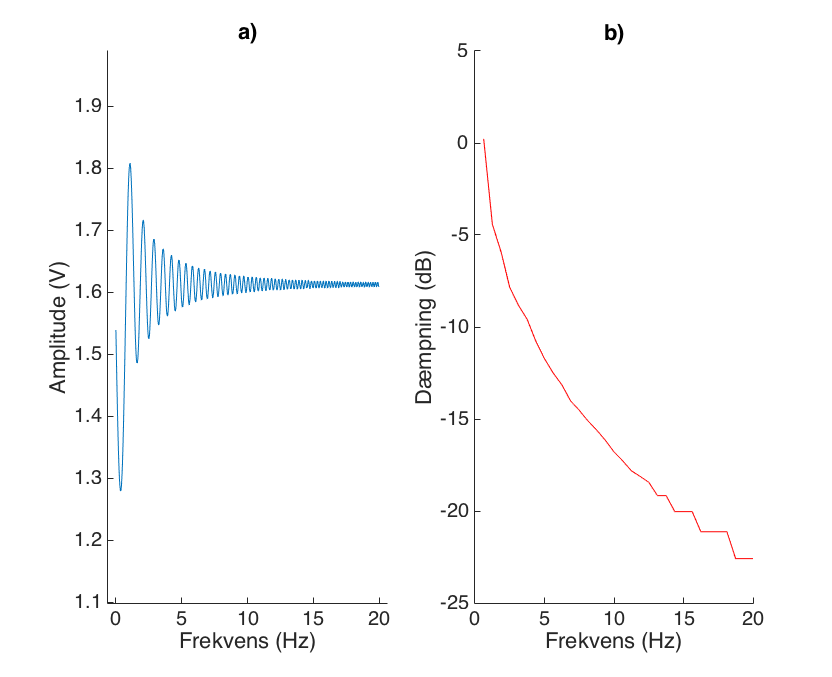
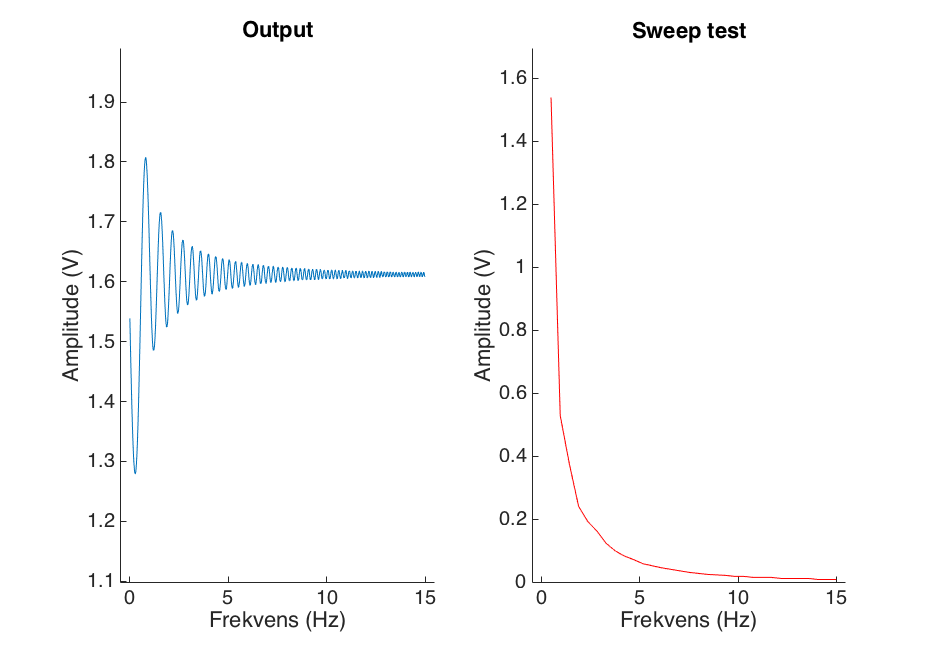
done

diff --git a/rapportAfsnit/eProblemloesning/Test/lavpas_test.tex b/rapportAfsnit/eProblemloesning/Test/lavpas_test.tex
@@ -11,17 +11,17 @@ For at undersøge, hvilken betydning det digitalt filtrede signal har i forhold 
 \noindent
 Figuren illustrerer, at inputsignalet følger det samplede signal dog med forsinkelse, for at teste forsinkelsen i det filteret eksekveres, defineres en debug-pin. Denne pin sættes høj før funktionskaldet og lav efter funktionskaldet. For at måle, hvor længe pinen er høj, tilsluttes et oscilloskop. Ud fra dette kan der aflæses en forsinkelse på $175~\mu~s$, hvilket er den forsinkelse der går før data har passeret det digitale filter. Denne forsinkelse vurderes ikke at have nogen signifikant betydning.
 
-For at vurdere om filteret dæmper nok i forhold til de opstillede krav i \autoref{sec:lavpas_krav}, udføres en sweeptest af frekvenser fra $0-15~Hz$ med en funktionsgenerator. Dette frekvensområde er valgt på baggrund af målinger fra \autoref{sec:pilotforsoeg}, hvor det fremgår, at signalet ligger mellem $0,4-10~Hz$.  Da funktionsgeneratoren ikke kan indstilles til en frekvens på $0~Hz$ indstilles denne til $1~\mu~Hz$. Amplituden sættes til 1 $V_{pp}$ med et offset på $1,65~V$, som er det halve af spændingsforsyningen på $3,3~V$. De målte værdier er multipliceret med spændingsforsyningen divideret med ADC'ens arbejdsområde, for således at omregne dette til spænding. Spændingensforsyningen er på $3,3~V$ og ADC'ens arbejdsområde er 2048. Resultatet af sweeptesten fremgår af \autoref{fig:lavps_sweep} \textbf{a)}, mens \textbf{b)} viser kurven for $V_{pp}$ gennem sweppet.
+For at vurdere om filteret dæmper nok i forhold til de opstillede krav i \autoref{sec:lavpas_krav}, udføres en sweeptest af frekvenser fra $0-15~Hz$ med en funktionsgenerator. Dette frekvensområde er valgt på baggrund af målinger fra \autoref{sec:pilotforsoeg}, hvor det fremgår, at signalet ligger mellem $0,4-10~Hz$.  Da funktionsgeneratoren ikke kan indstilles til en frekvens på $0~Hz$ indstilles denne til $1~\mu~Hz$. Amplituden sættes til 1 $V_{pp}$ med et offset på $1,65~V$, som er det halve af spændingsforsyningen på $3,3~V$. De målte værdier er multipliceret med spændingsforsyningen divideret med ADC'ens arbejdsområde, for således at omregne dette til spænding. Spændingensforsyningen er på $3,3~V$ og ADC'ens arbejdsområde er 2048. Resultatet af sweeptesten fremgår af \autoref{fig:lavps_sweep}.
 
 \begin{figure}[H]
 \centering
 \includegraphics[width=0.8\textwidth]{figures/Lavpass_test}
-\caption{Lavpasfiltrering af sweeptest fra 0 til $15~Hz$. Målingen er foretaget med et inputsignal svarende til en sinusbølge med en peak-to-peak på $1~V$. Signalet samples med en frekvens på $100~Hz$. Figur \textbf{a)} viser signalet efter filtrering, mens \textbf{b)} viser $V_{pp}$ gennem en sweeptest. Signalet er opdelt i vinduer af 500 millisekunders varighed og overlapper hinanden med 50 \%.}
+\caption{Lavpasfiltrering af sweeptest fra 0 til $15~Hz$. Målingen er foretaget med et inputsignal svarende til en sinusbølge med en peak-to-peak på $1~V$. Signalet samples med en frekvens på $100~Hz$. Den venstre figur viser signalet efter filtrering, mens den højre figuren viser $V_{pp}$ gennem en sweeptest. Signalet er opdelt i vinduer af 500 millisekunders varighed og overlapper hinanden med 50 \%.}
 \label{fig:lavps_sweep}
 \end{figure}
 
 \noindent
-En dæmpning på $-3~dB$ for den valgte knækfrekvens på $5~Hz$ bestemmes samt en dekade længere ude svarende til en frekvens på $50~Hz$. Da der anvendes et 2. ordens filter, skal denne frekvens dæmpes ved $-40~dB$. Outputspændingen ved disse dæmpningsfaktorer er udregnet ved \autoref{equ:daempning1} og \autoref{equ:daempning2}. 
+En dæmpning på $-3~dB$ for den valgte knækfrekvens på $5~Hz$ bestemmes, samt en dekade længere ude svarende til en frekvens på $50~Hz$. Da der anvendes et 2. ordens filter, skal denne frekvens dæmpes ved $-40~dB$. Da der er anvendt EMG-forstærkeren fremgår $50~Hz$ ikke, hvilket er beskrevet i \autoref{sec:EMG_imp}. Outputspændingen ved disse dæmpningsfaktorer er udregnet ved \autoref{equ:daempning1} og \autoref{equ:daempning2}. 
 
 \begin{equation} \label{equ:daempning1}
 -3~dB = 20 \cdot log_{10} \cdot (\frac{V_{out}}{0,1}) \Rightarrow V_{out} = 0,07 V
@@ -33,16 +33,12 @@ En dæmpning på $-3~dB$ for den valgte knækfrekvens på $5~Hz$ bestemmes samt 
 \noindent
 Da målingerne for $V_{pp}$ er downsamplet er det ikke muligt at aflæse nøjagtige værdier, hvorfor der tages udgangspunkt i de nærmeste værdier. Værdierne for $5~Hz$ er $0,06~V$. Afvigelsen fremgår af \autoref{equ:afvigelse1} og \autoref{equ:afvigelse2}.
 
-
 \begin{equation} \label{equ:afvigelse1}
 Afviglese_{5~Hz} = \frac{0,06V-0,07V}{0,07V} = -0,14  = - 14 \%
 \end{equation}
-\begin{equation} \label{equ:afvigelse2}
-Afvigelse_{15~Hz} = \frac{0,008V-0,01V}{0,01V} = -0,20  = -20 \%
-\end{equation}
 
 \noindent 
-Afvigelserne er for $5~HZ$ 14\%, mens det for $15~Hz$ er 20\%. Dette betyder at filteret ikke dæmper signalet nok. Da målingerne for outputspændingen, målt ved de forskellige frekvenser, ikke er målt nøjagtig aflæst, grundet downsampling, er det forventet, at der er en større afvigelse fra den teoretiske udregning. På baggrund af dette godtages filteret. 
+Afvigelserne for $5~HZ$ er 14\%. Dette betyder at filteret ikke dæmper signalet nok. Da målingerne for outputspændingen, målt ved de forskellige frekvenser, ikke er nøjagtig aflæst, grundet downsampling, er det forventet, at der er en større afvigelse fra værdierne udregnet i \autoref{equ:daempning1}. På baggrund af dette godtages filteret. 
 
 \vspace{3mm}
 \textbf{Opsummering af krav:}
